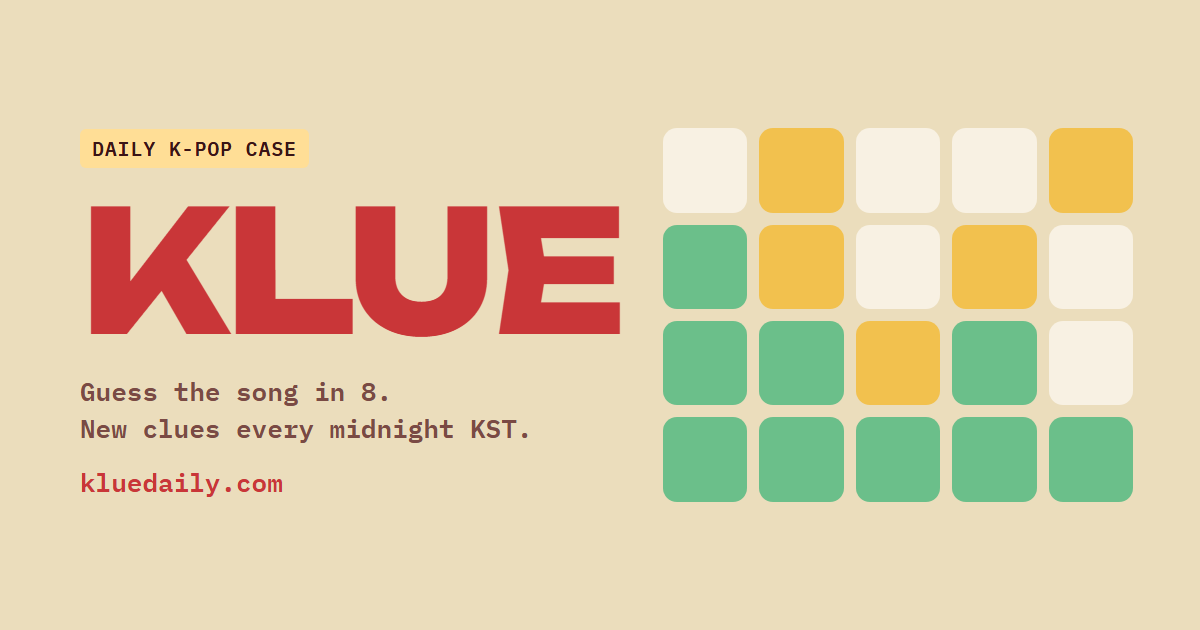
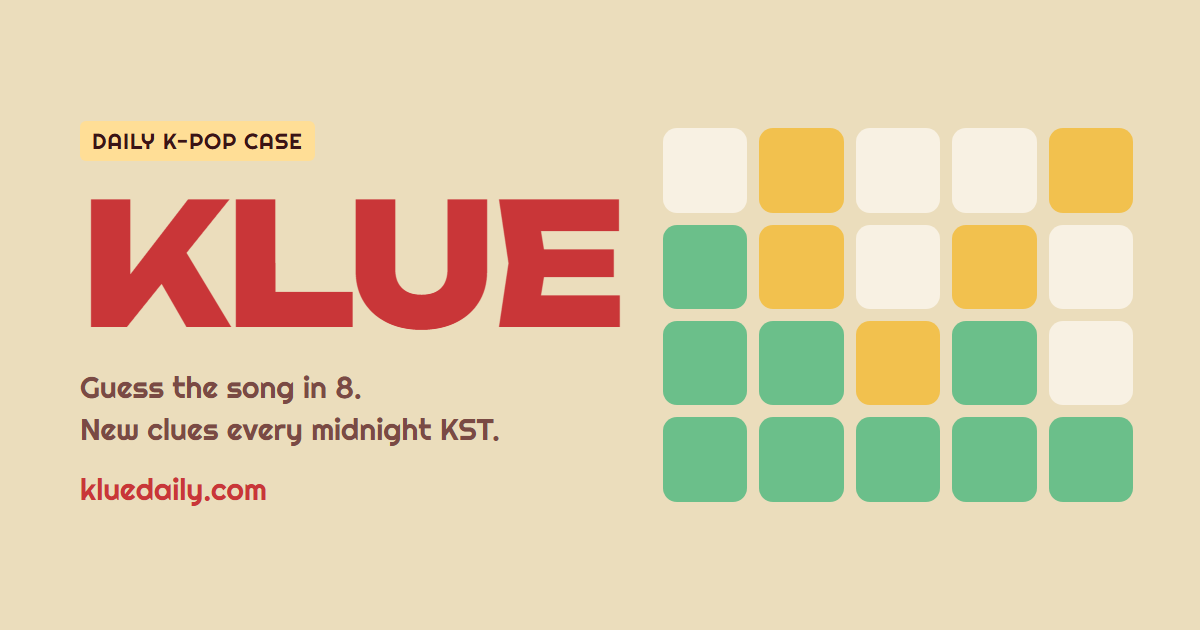
Righteous for small labels; versioned preview image so chat apps refetch it
Case line, guess label, counters, difficulty, tile labels, stats and BETA chip use Righteous (share box and arrows stay mono). og:image/twitter:image now og.png?v=3 so iMessage/Discord stop showing the cached old palette; OG image text set in Righteous.

diff --git a/site/assets/style.css b/site/assets/style.css
@@ -9,7 +9,8 @@
   --shadow: 0 1px 2px rgba(201,54,56,.06), 0 8px 24px rgba(201,54,56,.07);
   --f-display: "Unbounded", "Arial Black", system-ui, sans-serif;
   --f-body: "IBM Plex Sans KR", "Apple SD Gothic Neo", "Malgun Gothic", system-ui, sans-serif;
-  --f-mono: "IBM Plex Mono", ui-monospace, Menlo, monospace;
+  --f-mono: "IBM Plex Mono", ui-monospace, Menlo, monospace;   /* share box + arrows only */
+  --f-label: "Righteous", "Unbounded", system-ui, sans-serif;   /* small labels, counters, case line (one weight: 400) */
   color-scheme: light;
 }
 [hidden] { display: none !important; }   /* components below set display:flex, which would otherwise override hidden */
@@ -22,8 +23,8 @@ button:focus-visible, input:focus-visible { outline: 2px solid var(--accent); ou
 
 .mast { display: flex; align-items: flex-end; justify-content: space-between; gap: 12px; flex-wrap: wrap; }
 .logo { font-family: var(--f-display); font-weight: 800; font-size: clamp(22px, 6vw, 30px); letter-spacing: -.01em; line-height: 1; margin: 0; }
-.logo .chip { display: inline-block; font-family: var(--f-mono); font-size: 12px; font-weight: 600; background: var(--accent); color: var(--accent-ink); border-radius: 4px; padding: 3px 6px; vertical-align: 6px; margin-left: 6px; }
-.caseline { font-family: var(--f-mono); font-size: 12px; color: var(--muted); letter-spacing: .04em; text-transform: uppercase; margin-top: 6px; }
+.logo .chip { display: inline-block; font-family: var(--f-label); font-size: 12px; background: var(--accent); color: var(--accent-ink); border-radius: 4px; padding: 3px 6px; vertical-align: 6px; margin-left: 6px; font-weight: 400; }
+.caseline { font-family: var(--f-label); font-size: 12px; color: var(--muted); letter-spacing: .04em; text-transform: uppercase; margin-top: 6px; font-weight: 400; }
 .icon-btn { border: 1px solid var(--line); background: var(--surface); color: var(--ink); border-radius: 8px; padding: 6px 10px; font-size: 13px; font-weight: 600; }
 .modes { display: inline-flex; background: var(--off); border-radius: 10px; padding: 3px; gap: 3px; align-self: flex-start; }
 .modes button { border: 0; background: transparent; color: var(--off-ink); padding: 6px 14px; border-radius: 8px; font-weight: 600; font-size: 13px; }
@@ -33,8 +34,8 @@ button:focus-visible, input:focus-visible { outline: 2px solid var(--accent); ou
 .lineup { background: var(--surface); border: 1px solid var(--line); border-radius: 14px; padding: 14px; display: flex; flex-direction: column; gap: 10px; }
 .lineup-head { display: flex; justify-content: space-between; align-items: baseline; gap: 10px; flex-wrap: wrap; }
 .lineup-head h2 { margin: 0; font-family: var(--f-display); font-weight: 700; font-size: 13px; letter-spacing: .06em; text-transform: uppercase; }
-.diff { font-family: var(--f-mono); font-size: 12px; color: var(--muted); }
-.diff b { color: var(--ink); }
+.diff { font-family: var(--f-label); font-size: 12px; color: var(--muted); font-weight: 400; }
+.diff b { color: var(--ink); font-weight: 400; }
 .clues { display: grid; grid-template-columns: repeat(5, minmax(0, 1fr)); gap: 8px; }
 .clue { border: 1px solid var(--line); border-radius: 10px; padding: 8px; display: flex; flex-direction: column; gap: 2px; min-width: 0; }
 .clue.fixed { background: var(--soft); border-color: transparent; }
@@ -52,7 +53,7 @@ button:focus-visible, input:focus-visible { outline: 2px solid var(--accent); ou
 @media (max-width: 560px) { .clues { grid-template-columns: repeat(3, minmax(0, 1fr)); } }
 
 .guessbar { position: relative; display: flex; flex-direction: column; gap: 6px; }
-.guessbar label { font-family: var(--f-mono); font-size: 11px; letter-spacing: .08em; text-transform: uppercase; color: var(--muted); display: flex; justify-content: space-between; }
+.guessbar label { font-family: var(--f-label); font-size: 11px; letter-spacing: .08em; text-transform: uppercase; color: var(--muted); display: flex; justify-content: space-between; font-weight: 400; }
 .guessbar input { width: 100%; font: inherit; font-size: 16px; padding: 12px 14px; border-radius: 10px; border: 1.5px solid var(--line); background: var(--surface); color: var(--ink); }
 .guessbar input:disabled { opacity: .55; }
 .sugg { position: absolute; top: 100%; left: 0; right: 0; margin: 4px 0 0; padding: 4px; list-style: none; background: var(--surface); border: 1px solid var(--line); border-radius: 10px; box-shadow: var(--shadow); z-index: 5; max-height: 320px; overflow-y: auto; }
@@ -69,13 +70,13 @@ button:focus-visible, input:focus-visible { outline: 2px solid var(--accent); ou
 .card-head { display: flex; align-items: baseline; justify-content: space-between; gap: 10px; padding: 0 2px; }
 .card-head .song { font-weight: 700; min-width: 0; }
 .card-head .song span { color: var(--muted); font-weight: 500; }
-.card-head .n { font-family: var(--f-mono); font-size: 12px; color: var(--muted); white-space: nowrap; }
+.card-head .n { font-family: var(--f-label); font-size: 12px; color: var(--muted); white-space: nowrap; font-weight: 400; }
 .cells { display: grid; grid-template-columns: repeat(5, minmax(0, 1fr)); gap: 6px; }
 @media (max-width: 480px) { .cells { grid-template-columns: repeat(3, minmax(0, 1fr)); } }
 .controls { display: flex; justify-content: space-between; align-items: center; gap: 10px; flex-wrap: wrap; }
 .filter-note { font-size: 12px; color: var(--muted); }
 .cell { border-radius: 8px; padding: 7px 4px 8px; text-align: center; display: flex; flex-direction: column; gap: 2px; justify-content: center; min-height: 60px; background: var(--off); color: var(--off-ink); }
-.cell .k { font-family: var(--f-mono); font-size: 9.5px; letter-spacing: .07em; text-transform: uppercase; opacity: .8; }
+.cell .k { font-family: var(--f-label); font-size: 9.5px; letter-spacing: .07em; text-transform: uppercase; opacity: .8; font-weight: 400; }
 .cell .v { font-size: 13px; font-weight: 600; line-height: 1.2; overflow-wrap: anywhere; font-variant-numeric: tabular-nums; }
 .cell .ar { font-family: var(--f-mono); font-weight: 600; font-size: 13px; line-height: 1; }
 .cell.off { box-shadow: inset 0 0 0 1px var(--line); }
@@ -94,8 +95,8 @@ button:focus-visible, input:focus-visible { outline: 2px solid var(--accent); ou
 .btn.ghost { background: transparent; color: var(--ink); border: 1px solid var(--line); }
 .stats { display: grid; grid-template-columns: repeat(4, minmax(0, 1fr)); gap: 8px; text-align: center; }
 .stats b { display: block; font-family: var(--f-display); font-size: 22px; font-weight: 700; font-variant-numeric: tabular-nums; }
-.stats span { font-size: 11px; color: var(--muted); font-family: var(--f-mono); text-transform: uppercase; letter-spacing: .06em; }
-.next { font-family: var(--f-mono); font-size: 13px; color: var(--muted); }
+.stats span { font-size: 11px; color: var(--muted); font-family: var(--f-label); text-transform: uppercase; letter-spacing: .06em; font-weight: 400; }
+.next { font-family: var(--f-label); font-size: 13px; color: var(--muted); font-weight: 400; }
 .foot { font-size: 12px; color: var(--muted); border-top: 1px solid var(--line); padding-top: 14px; display: flex; flex-direction: column; gap: 6px; }
 .foot p { margin: 0; max-width: 62ch; }
 .legend { display: flex; flex-wrap: wrap; gap: 6px 14px; }
@@ -118,5 +119,5 @@ body { margin: 0; }
 .doc h1 { font-family: var(--f-display); font-weight: 800; font-size: clamp(22px, 6vw, 28px); margin: 8px 0 4px; }
 .doc h2 { font-family: var(--f-display); font-weight: 700; font-size: 15px; margin: 28px 0 6px; }
 .doc p, .doc li { max-width: 62ch; }
-.doc .meta { font-family: var(--f-mono); font-size: 12px; color: var(--muted); }
+.doc .meta { font-family: var(--f-label); font-size: 12px; color: var(--muted); font-weight: 400; }
 .doc a { color: var(--accent-text); }

diff --git a/site/index.html b/site/index.html
@@ -15,18 +15,19 @@
 <meta property="og:title" content="Klue: guess today's K-pop song">
 <meta property="og:description" content="8 tries. Artist plus four clues that change every day at midnight KST.">
 <meta property="og:url" content="https://kluedaily.com/">
-<meta property="og:image" content="https://kluedaily.com/og.png">
+<!-- Bump ?v= whenever og.png changes: iMessage/Discord cache images by URL and won't refetch otherwise. -->
+<meta property="og:image" content="https://kluedaily.com/og.png?v=3">
 <meta property="og:image:width" content="1200">
 <meta property="og:image:height" content="630">
 <meta property="og:image:alt" content="Klue: a grid of green, yellow and grey clue tiles">
 <meta name="twitter:card" content="summary_large_image">
 <meta name="twitter:title" content="Klue: guess today's K-pop song">
 <meta name="twitter:description" content="8 tries. Artist plus four clues that change every day at midnight KST.">
-<meta name="twitter:image" content="https://kluedaily.com/og.png">
+<meta name="twitter:image" content="https://kluedaily.com/og.png?v=3">
 
 <link rel="preconnect" href="https://fonts.googleapis.com">
 <link rel="preconnect" href="https://fonts.gstatic.com" crossorigin>
-<link rel="stylesheet" href="https://fonts.googleapis.com/css2?family=Unbounded:wght@500;700;800&family=IBM+Plex+Sans+KR:wght@400;500;600;700&family=IBM+Plex+Mono:wght@500;600&display=swap">
+<link rel="stylesheet" href="https://fonts.googleapis.com/css2?family=Unbounded:wght@500;700;800&family=IBM+Plex+Sans+KR:wght@400;500;600;700&family=IBM+Plex+Mono:wght@500;600&family=Righteous&display=swap">
 <link rel="stylesheet" href="assets/style.css">
 <script src="assets/config.js"></script>
 <script src="assets/analytics.js"></script>

diff --git a/tools/og.html b/tools/og.html
@@ -1,15 +1,15 @@
 <!doctype html>
 <!-- Source for site/og.png (1200x630) and site/apple-touch-icon.png. Rebuild with: powershell -File tools/make-images.ps1 -->
 <html><head><meta charset="utf-8">
-<link rel="stylesheet" href="https://fonts.googleapis.com/css2?family=Unbounded:wght@700;800&family=IBM+Plex+Mono:wght@600&display=swap">
+<link rel="stylesheet" href="https://fonts.googleapis.com/css2?family=Unbounded:wght@700;800&family=Righteous&display=swap">
 <style>
   html, body { margin: 0; }
   body { width: 1200px; height: 630px; background: #EBDDBC; color: #C93638; font-family: "Unbounded", sans-serif; overflow: hidden;
     display: grid; grid-template-columns: 1fr 470px; align-items: center; gap: 40px; padding: 0 80px; box-sizing: border-box; }
-  .chip { display: inline-block; font: 600 20px "IBM Plex Mono", monospace; background: #FFDE96; color: #3a1416; border-radius: 6px; padding: 6px 12px; margin-bottom: 26px; letter-spacing: .04em; }
+  .chip { display: inline-block; font: 400 22px "Righteous", sans-serif; background: #FFDE96; color: #3a1416; border-radius: 6px; padding: 6px 12px; margin-bottom: 26px; letter-spacing: .04em; }
   h1 { font-weight: 800; font-size: 170px; line-height: .9; margin: 0 0 26px; letter-spacing: -.03em; }
   .url { color: #C93638; margin-top: 18px; }
-  p { font: 600 26px "IBM Plex Mono", monospace; color: #7a4a44; margin: 0; line-height: 1.4; }
+  p { font: 400 30px "Righteous", sans-serif; color: #7a4a44; margin: 0; line-height: 1.4; }
   .grid { display: grid; grid-template-columns: repeat(5, 1fr); gap: 12px; }
   .grid i { aspect-ratio: 1; border-radius: 14px; background: #f8f1e3; }
   .h { background: #6BBF8A !important; } .n { background: #F2C14E !important; }

diff --git a/site/privacy.html b/site/privacy.html
@@ -9,7 +9,7 @@
 <link rel="icon" href="favicon.svg" type="image/svg+xml">
 <link rel="preconnect" href="https://fonts.googleapis.com">
 <link rel="preconnect" href="https://fonts.gstatic.com" crossorigin>
-<link rel="stylesheet" href="https://fonts.googleapis.com/css2?family=Unbounded:wght@700;800&family=IBM+Plex+Sans+KR:wght@400;600&family=IBM+Plex+Mono:wght@500&display=swap">
+<link rel="stylesheet" href="https://fonts.googleapis.com/css2?family=Unbounded:wght@700;800&family=IBM+Plex+Sans+KR:wght@400;600&family=IBM+Plex+Mono:wght@500&family=Righteous&display=swap">
 <link rel="stylesheet" href="assets/style.css">
 </head>
 <body>

diff --git a/README.md b/README.md
@@ -10,7 +10,8 @@ Working title was "Chart Detective" (the history below and the `archive/` files 
 (preset "None", no build command, output directory `site`). Live at https://kluedaily.com; `www` 301-redirects
 to it via a Cloudflare Redirect Rule. `hello@kluedaily.com` forwards via Cloudflare Email Routing.
 **Settings:** PostHog key, report-form URL and site URL live in `site/assets/config.js`.
-**Preview image:** edit `tools/og.html`, then `powershell -File tools/make-images.ps1`.
+**Preview image:** edit `tools/og.html`, run `powershell -File tools/make-images.ps1`, then bump `og.png?v=N` in
+`site/index.html` (both tags). iMessage/Discord cache by image URL and keep showing the old picture otherwise.
 `CLAUDE.md` has the game rules, data rules and next engineering steps in compact form.
 
 ## How we got here (Nov 2026)
